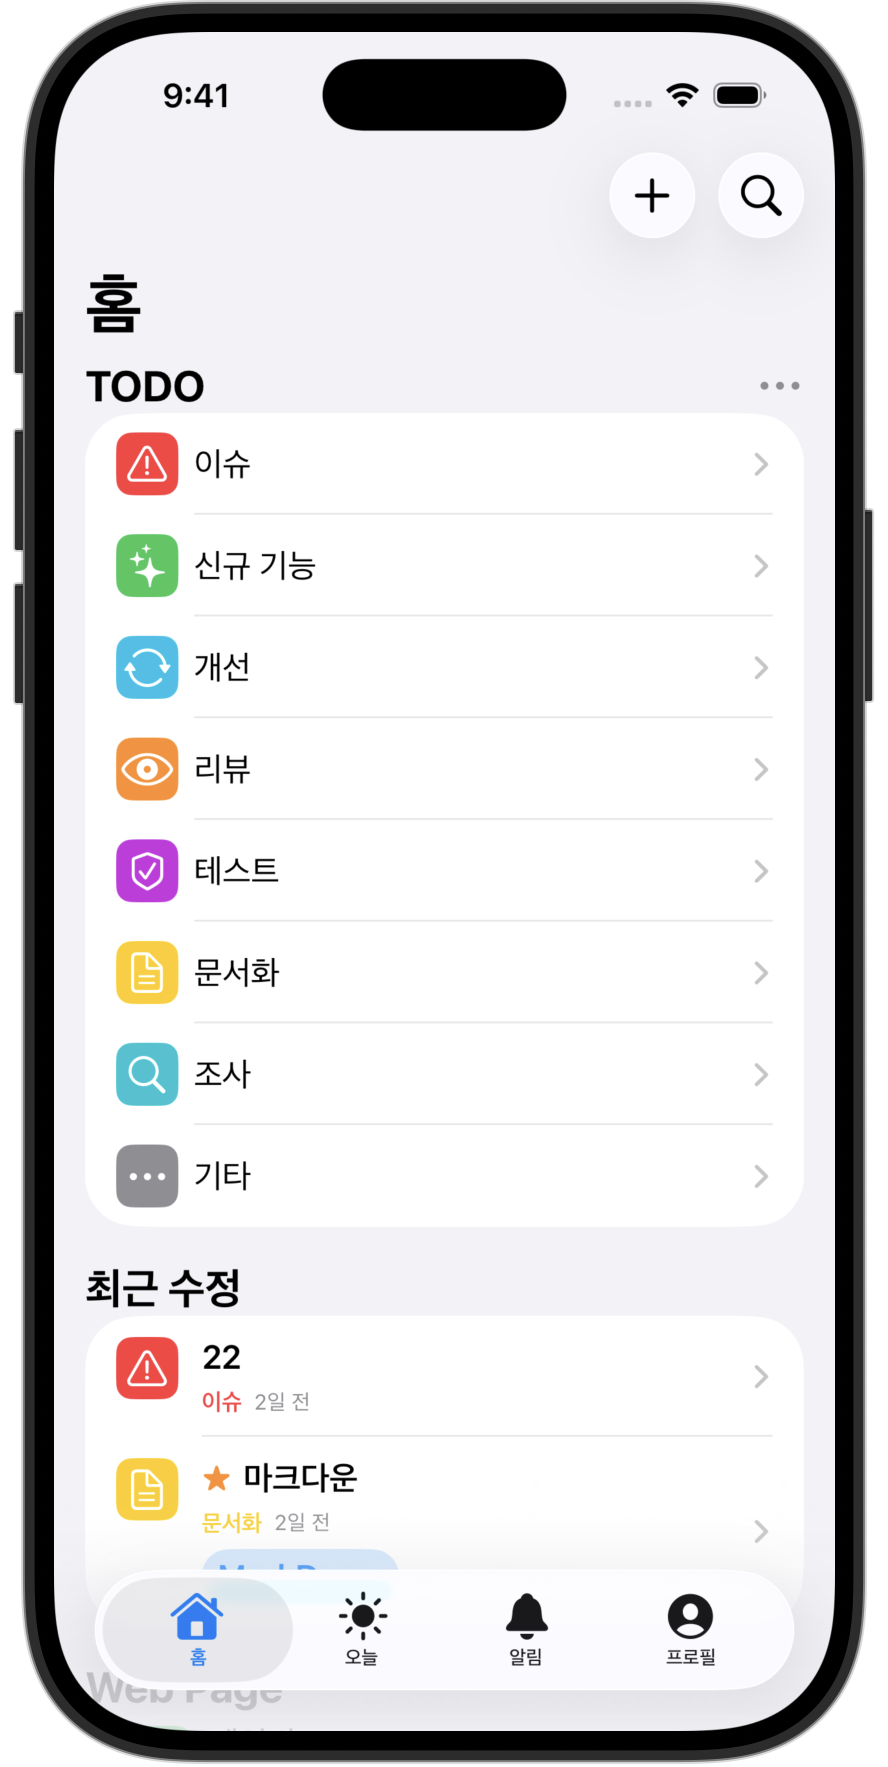
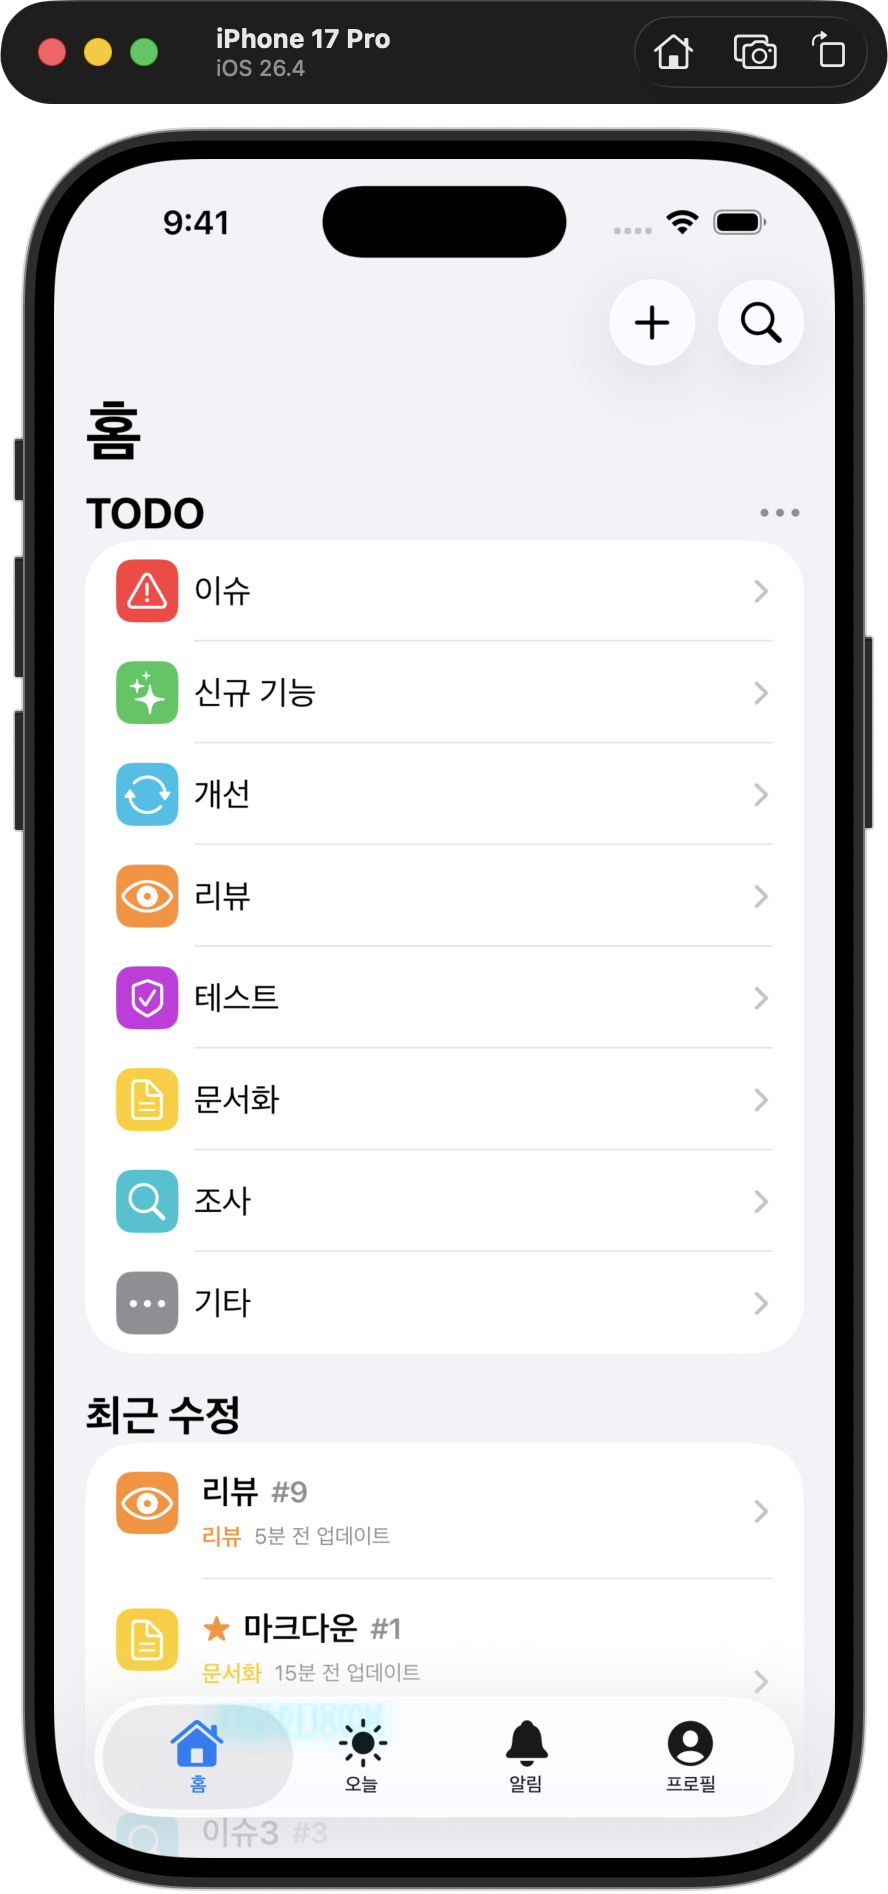
[#343] 리드미 메인 이미지를 수정한다 (#345)
* image: readme의 소개 흐름에 맞도록 이미지 수정

* docs: 소개 흐름 및 이미지 적용

* fix: % 단위

diff --git a/README.md b/README.md
@@ -5,24 +5,28 @@
 
 <table>
   <tr>
-    <td align="center" width="25%">
+    <td align="center" width="20%">
       <img src="./docs/home.png">
     </td>
-    <td align="center" width="25%">
+    <td align="center" width="20%">
       <img src="./docs/markdown.png">
     </td>
-    <td align="center" width="25%">
-      <img src="./docs/metadata.png">
+    <td align="center" width="20%">
+      <img src="./docs/today.png">
     </td>
-    <td align="center" width="25%">
+    <td align="center" width="20%">
       <img src="./docs/notification.png">
+    </td>
+    <td align="center" width="20%">
+      <img src="./docs/hitmap.png">
     </td>
   </tr>
   <tr>
-    <td align="center">Home</td>
-    <td align="center">Markdown</td>
-    <td align="center">Todo 상세</td>
+    <td align="center">홈</td>
+    <td align="center">마크다운 작성</td>
+    <td align="center">오늘 기준의 Todo 확인</td>
     <td align="center">푸시 알림</td>
+    <td align="center">히트맵</td>
   </tr>
 </table>
 
